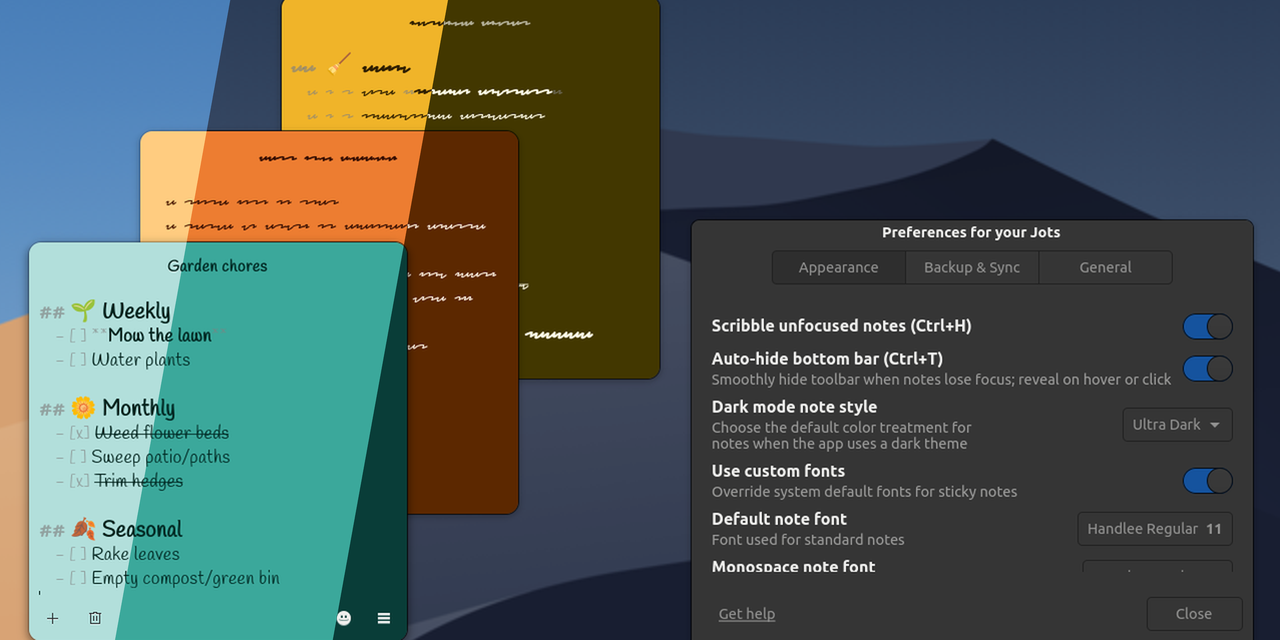
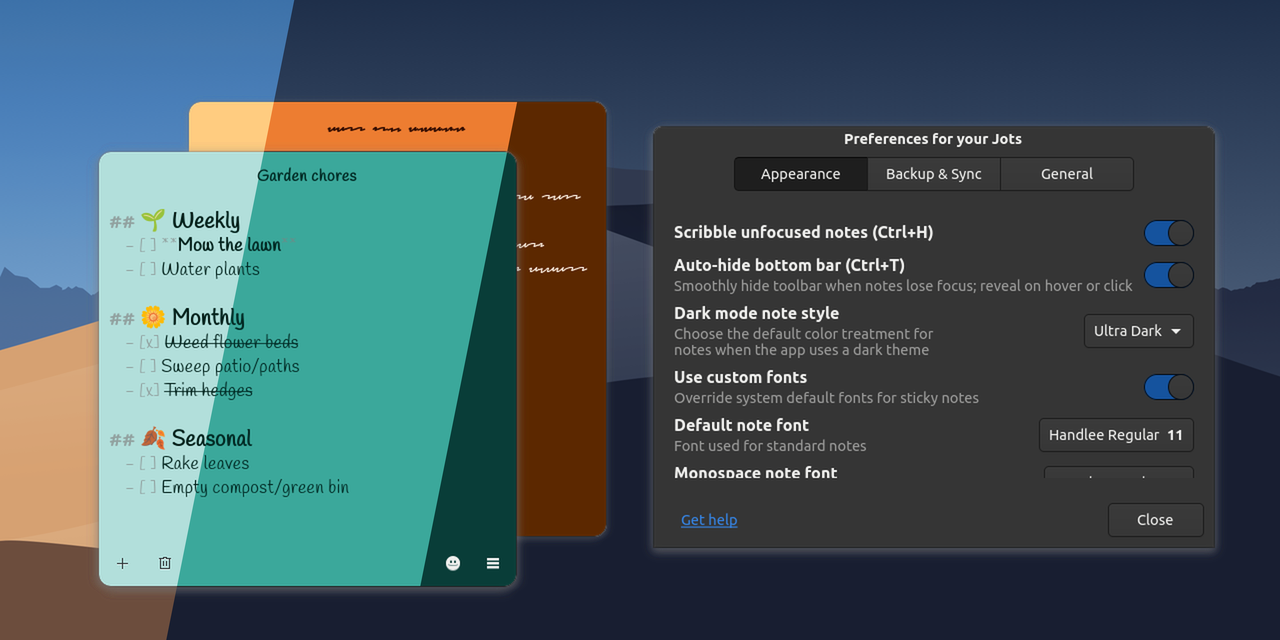
feat(assets): refine social preview with safe-margin assembled layout
Update generate_social_preview.py and social-preview.png to support assembling window captures onto day and night wallpapers within GitHub's 40pt safe area.

diff --git a/scripts/generate_social_preview.py b/scripts/generate_social_preview.py
@@ -4,7 +4,7 @@
 """
 Generate GitHub Social Preview image (1280x640) for Jots by compositing
 the three screenshot variants (Light, Vibrant Dark, Ultra-Dark) with
-seamless diagonal cuts through the sticky notes.
+seamless diagonal cuts across sticky notes within the GitHub 40pt safe area.
 """
 
 import argparse
@@ -47,14 +47,66 @@ def prepare_base_image(image_path, target_w, target_h):
         return img_resized.crop((0, top, target_w, top + target_h))
 
 
+def assemble_from_windows(
+    windows_dir,
+    day_wallpaper,
+    night_wallpaper,
+    pos_orange=(175, 90),
+    pos_green=(85, 140),
+    pos_pref=(640, 115)
+):
+    """
+    Assemble the three theme scenes from individual window PNGs and day/night wallpapers.
+    """
+    day_wp = Image.open(day_wallpaper).convert('RGBA')
+    night_wp = Image.open(night_wallpaper).convert('RGBA')
+
+    # Fit and crop wallpaper to target 1280x640 canvas
+    def fit_wallpaper(wp):
+        scale = max(WIDTH / wp.width, HEIGHT / wp.height)
+        scaled_w = int(wp.width * scale)
+        scaled_h = int(wp.height * scale)
+        scaled_wp = wp.resize((scaled_w, scaled_h), LANCZOS)
+        offset_x = (scaled_w - WIDTH) // 2
+        offset_y = (scaled_h - HEIGHT) // 2
+        return scaled_wp.crop((offset_x, offset_y, offset_x + WIDTH, offset_y + HEIGHT))
+
+    day_bg = fit_wallpaper(day_wp)
+    night_bg = fit_wallpaper(night_wp)
+
+    # Load individual window captures
+    green_light = Image.open(os.path.join(windows_dir, 'light1.png')).convert('RGBA')
+    green_vibrant = Image.open(os.path.join(windows_dir, 'vibrant2.png')).convert('RGBA')
+    green_ultra = Image.open(os.path.join(windows_dir, 'ultra-dark2.png')).convert('RGBA')
+
+    orange_light = Image.open(os.path.join(windows_dir, 'light2.png')).convert('RGBA')
+    orange_vibrant = Image.open(os.path.join(windows_dir, 'vibrant1.png')).convert('RGBA')
+    orange_ultra = Image.open(os.path.join(windows_dir, 'ultra-dark1.png')).convert('RGBA')
+
+    pref = Image.open(os.path.join(windows_dir, 'preference.png')).convert('RGBA')
+
+    def build_scene(bg, green_note, orange_note, pref_img):
+        canvas = bg.copy()
+        canvas.paste(orange_note, pos_orange, orange_note)
+        canvas.paste(green_note, pos_green, green_note)
+        canvas.paste(pref_img, pos_pref, pref_img)
+        return canvas
+
+    scene_light = build_scene(day_bg, green_light, orange_light, pref)
+    scene_vibrant = build_scene(night_bg, green_vibrant, orange_vibrant, pref)
+    scene_ultra = build_scene(night_bg, green_ultra, orange_ultra, pref)
+
+    return scene_light, scene_vibrant, scene_ultra
+
+
 def create_composite(
     light_img,
     dark_img,
     ultra_img,
-    cut1_top=0.18,
-    cut1_bottom=0.09,
-    cut2_top=0.35,
-    cut2_bottom=0.26,
+    cut1_top=0.23,
+    cut1_bottom=0.13,
+    cut2_top=0.42,
+    cut2_bottom=0.32,
     divider_width=0,
     divider_color=(255, 255, 255, 90)
 ):
@@ -110,26 +162,40 @@ def create_composite(
 
 def main():
     parser = argparse.ArgumentParser(description="Generate GitHub Social Preview banner for Jots")
-    parser.add_argument('--light', default=DEFAULT_LIGHT_PATH, help="Path to light screenshot")
-    parser.add_argument('--dark', default=DEFAULT_DARK_PATH, help="Path to dark screenshot")
-    parser.add_argument('--ultra', default=DEFAULT_ULTRA_PATH, help="Path to ultra-dark screenshot")
+    parser.add_argument('--assemble', action='store_true', help="Assemble from individual window captures & wallpapers")
+    parser.add_argument('--windows-dir', default=None, help="Directory containing individual window PNGs")
+    parser.add_argument('--day-wallpaper', default=None, help="Path to light/day wallpaper image")
+    parser.add_argument('--night-wallpaper', default=None, help="Path to dark/night wallpaper image")
+    parser.add_argument('--light', default=DEFAULT_LIGHT_PATH, help="Path to full light screenshot")
+    parser.add_argument('--dark', default=DEFAULT_DARK_PATH, help="Path to full dark screenshot")
+    parser.add_argument('--ultra', default=DEFAULT_ULTRA_PATH, help="Path to full ultra-dark screenshot")
     parser.add_argument('--output', default=DEFAULT_OUTPUT_PATH, help="Output PNG path")
-    parser.add_argument('--cut1-top', type=float, default=0.18, help="Top ratio for cut 1")
-    parser.add_argument('--cut1-bottom', type=float, default=0.09, help="Bottom ratio for cut 1")
-    parser.add_argument('--cut2-top', type=float, default=0.35, help="Top ratio for cut 2")
-    parser.add_argument('--cut2-bottom', type=float, default=0.26, help="Bottom ratio for cut 2")
+    parser.add_argument('--cut1-top', type=float, default=0.23, help="Top ratio for cut 1")
+    parser.add_argument('--cut1-bottom', type=float, default=0.13, help="Bottom ratio for cut 1")
+    parser.add_argument('--cut2-top', type=float, default=0.42, help="Top ratio for cut 2")
+    parser.add_argument('--cut2-bottom', type=float, default=0.32, help="Bottom ratio for cut 2")
     parser.add_argument('--divider', type=int, default=0, help="Divider line width in px (0 for seamless)")
     args = parser.parse_args()
 
-    for p in [args.light, args.dark, args.ultra]:
-        if not os.path.exists(p):
-            print(f"Error: Screenshot file not found: {p}", file=sys.stderr)
+    if args.assemble or (args.windows_dir and args.day_wallpaper and args.night_wallpaper):
+        if not (args.windows_dir and args.day_wallpaper and args.night_wallpaper):
+            print("Error: --assemble requires --windows-dir, --day-wallpaper, and --night-wallpaper.", file=sys.stderr)
             sys.exit(1)
-
-    print("Cropping and resizing source screenshots...")
-    light_img = prepare_base_image(args.light, WIDTH, HEIGHT)
-    dark_img = prepare_base_image(args.dark, WIDTH, HEIGHT)
-    ultra_img = prepare_base_image(args.ultra, WIDTH, HEIGHT)
+        print("Assembling scenes from window captures and wallpapers...")
+        light_img, dark_img, ultra_img = assemble_from_windows(
+            args.windows_dir,
+            args.day_wallpaper,
+            args.night_wallpaper
+        )
+    else:
+        for p in [args.light, args.dark, args.ultra]:
+            if not os.path.exists(p):
+                print(f"Error: Screenshot file not found: {p}", file=sys.stderr)
+                sys.exit(1)
+        print("Cropping and resizing full-desktop screenshots...")
+        light_img = prepare_base_image(args.light, WIDTH, HEIGHT)
+        dark_img = prepare_base_image(args.dark, WIDTH, HEIGHT)
+        ultra_img = prepare_base_image(args.ultra, WIDTH, HEIGHT)
 
     print(f"Compositing diagonal slices across notes into {WIDTH}x{HEIGHT}...")
     result = create_composite(

diff --git a/scripts/README.md b/scripts/README.md
@@ -6,47 +6,59 @@ This directory contains development utilities and asset-generation scripts for J
 
 ## `generate_social_preview.py`
 
-Generates the GitHub repository Open Graph social preview banner ([`data/screenshots/social-preview.png`](../data/screenshots/social-preview.png)) by compositing three screenshot variants (**Light**, **Vibrant Dark**, and **Ultra-Dark**) with seamless diagonal cuts.
+Generates the GitHub repository Open Graph social preview banner ([`data/screenshots/social-preview.png`](../data/screenshots/social-preview.png)) by compositing theme screenshot variants (**Light**, **Vibrant Dark**, and **Ultra-Dark**) with seamless diagonal cuts across note windows while respecting GitHub's 40pt safe area template.
 
 ### What it does
-* Reads the three theme screenshot variants from `data/screenshots/`.
-* Uniformly scales and crops the screenshots to GitHub's standard social preview resolution (`1280 × 640 px`, 2:1 aspect ratio).
+* **Assembled Mode (`--assemble`)**: Takes individual transparent window captures (notes, preferences dialog) and composites them cleanly onto day and night wallpapers within GitHub's 40pt safe margins.
+* **Full-Desktop Screenshot Mode (Default)**: Uniformly scales and crops full-desktop screenshot captures to GitHub's standard resolution (`1280 × 640 px`, 2:1 aspect ratio).
 * Applies antialiased polygon masking at 4× supersampling to create smooth diagonal cuts across the sticky notes cluster.
 * Outputs an optimized static PNG under 1 MB suitable for upload to GitHub repository settings.
 
 ### Assumptions about input images
-1. **Source Paths**: Defaults to:
-   * `data/screenshots/jots-light.png` (Light mode)
-   * `data/screenshots/jots-dark.png` (Vibrant Dark mode)
-   * `data/screenshots/jots-dark-ultra.png` (Ultra-Dark mode)
-2. **Resolution & Alignment**:
-   * All three screenshots must share the **exact same resolution** (e.g. `1277 × 699 px`).
-   * Window positions and desktop framing must be **identical across all three captures** so that note boundaries, text lines, and UI controls align seamlessly across the diagonal seams.
-3. **Environment**:
-   * Requires Python 3 with `Pillow` (`PIL`).
+
+#### 1. Individual Window Captures (`--assemble`)
+* **Window PNGs**: Transparent RGBA captures with native GTK4 drop shadows:
+  * `light1.png` (Green note / active checklist, Light)
+  * `light2.png` (Orange note / scribble text, Light)
+  * `vibrant1.png` (Orange note, Vibrant Dark)
+  * `vibrant2.png` (Green note, Vibrant Dark)
+  * `ultra-dark1.png` (Orange note, Ultra-Dark)
+  * `ultra-dark2.png` (Green note, Ultra-Dark)
+  * `preference.png` (Preferences dialog)
+* **Wallpapers**:
+  * Light / daytime wallpaper image
+  * Dark / nighttime wallpaper image
+
+#### 2. Full-Desktop Screenshot Mode
+* **Source Paths**: `data/screenshots/jots-light.png`, `jots-dark.png`, `jots-dark-ultra.png`.
+* All captures must share the **exact same resolution and window placement** so note boundaries align across diagonal seams.
 
 ### Usage
 
-Run with default paths and settings:
+Run with default repository screenshots:
 ```bash
 ./scripts/generate_social_preview.py
 ```
 
-Customize inputs, outputs, or cut positions:
+Assemble from individual window captures and wallpapers:
 ```bash
-# Specify custom image paths or output destination
 ./scripts/generate_social_preview.py \
-  --light path/to/light.png \
-  --dark path/to/dark.png \
-  --ultra path/to/ultra.png \
+  --assemble \
+  --windows-dir path/to/windows/ \
+  --day-wallpaper path/to/day-wallpaper.png \
+  --night-wallpaper path/to/night-wallpaper.png \
   --output custom-preview.png
+```
 
-# Adjust cut positions (0.0 to 1.0 ratios across width)
+Adjust diagonal cut ratios across the canvas (0.0 to 1.0):
+```bash
 ./scripts/generate_social_preview.py \
-  --cut1-top 0.18 --cut1-bottom 0.09 \
-  --cut2-top 0.35 --cut2-bottom 0.26
+  --cut1-top 0.23 --cut1-bottom 0.13 \
+  --cut2-top 0.42 --cut2-bottom 0.32
+```
 
-# Optional: Add divider lines between slices (e.g., 2px wide)
+Optional: Add divider lines between slices (e.g., 2px wide):
+```bash
 ./scripts/generate_social_preview.py --divider 2
 ```
 
